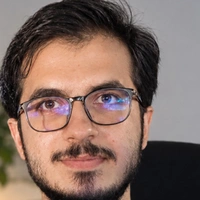
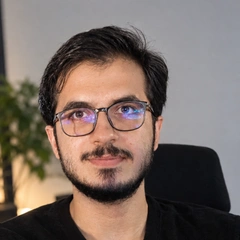
Zoom out hero portrait with natural mid-shot framing, leveled alignment, and balanced headroom

diff --git a/styles.css b/styles.css
@@ -393,7 +393,7 @@ button {
   width: 100%;
   height: 100%;
   object-fit: cover;
-  object-position: center 22%;
+  object-position: center 16%;
   filter: contrast(1.03) brightness(0.97);
   transition: transform 550ms cubic-bezier(0.16, 1, 0.3, 1);
   display: block;
